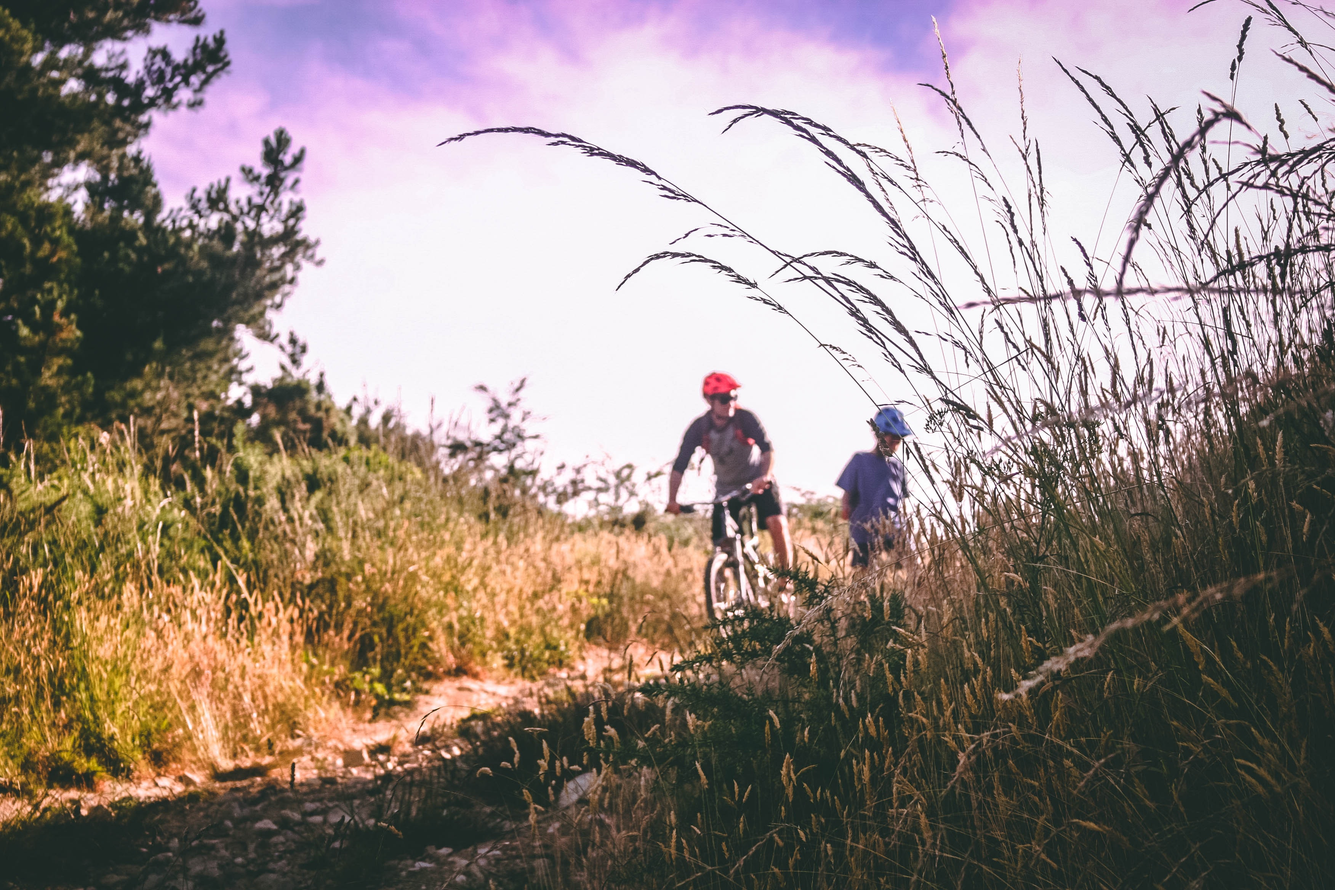
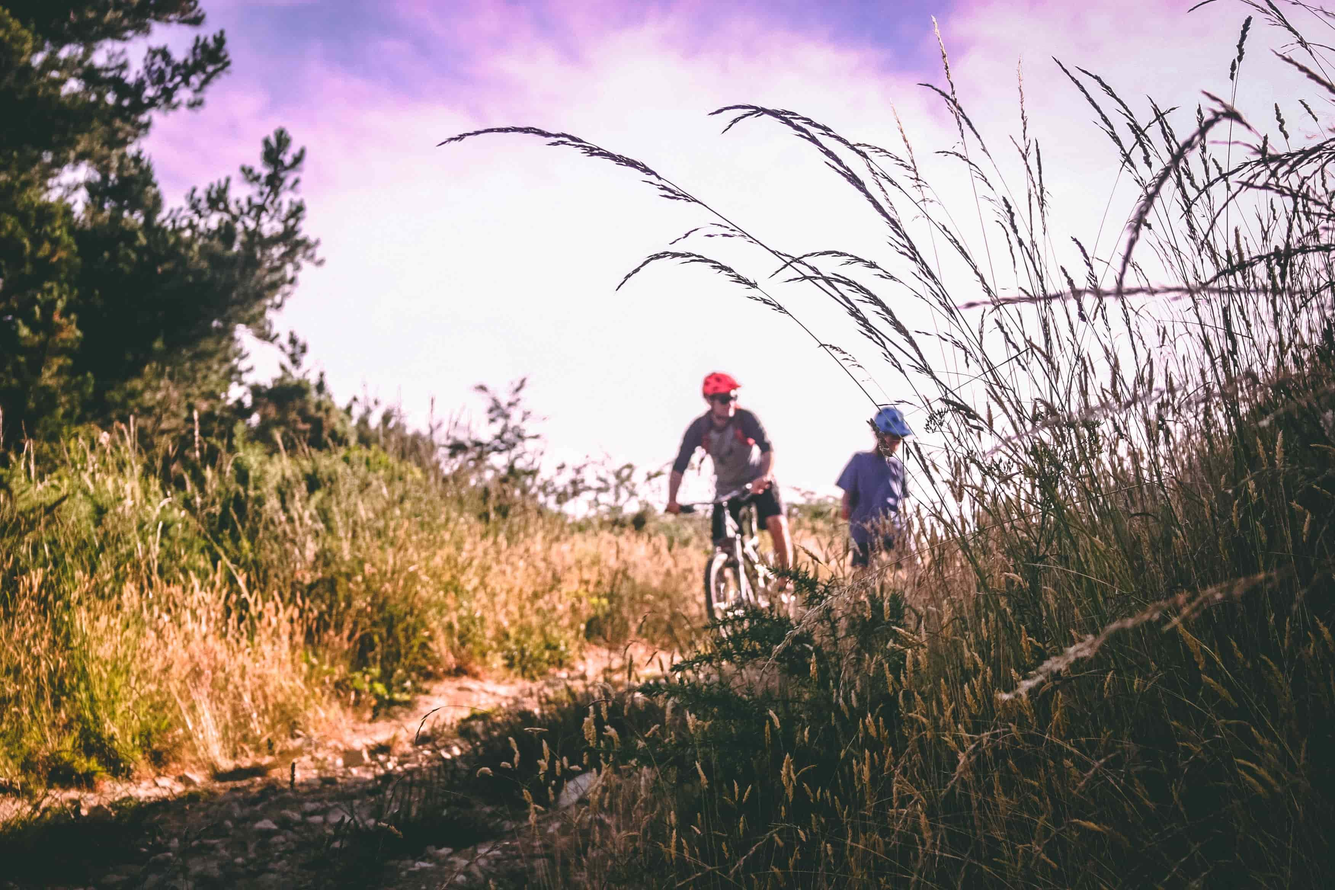
compressed images, adjusted padding on things to do text

diff --git a/components/things-to-do/index.js b/components/things-to-do/index.js
@@ -8,17 +8,18 @@ import SubTitle from "../shared/title/subtitle";
 export default function ThingsToDo() {
   return (
     <div>
-      <div className="flex-layout w-full bg-nature4 text-nature1 ">
+      <div className="w-full text-center w-2/3 mx-auto bg-nature5">
+        <p className="pt-[94px] pb-[94px] font-serif text-3xl md:text-4xl tracking-tight text-nature1">
+          Explore all of the activities that the Lake District has to offer
+        </p>
+      </div>
+      <div className="flex-layout w-full bg-nature4 text-nature1">
         <div>
-          <img
-            className="h-[400px] md:h-[450px] md:w-[559px] w-full object-cover"
-            src="/images/hiking.jpg"
-            alt=""
-          />
-
-          <div className="flex flex-col items-center justify-center p-5 w-10/12 md:w-[620px] md:pt-0 text-center mx-auto">
+          <img src="/images/hiking.jpg" alt="" />
+          {/* <div className="flex flex-col items-center justify-center p-5 max-w-[800px] xl:w-[620px] md:pt-0 text-center mx-auto"> */}
+          <div className="flex flex-col items-center justify-center px-5 py-16 md:py-0 max-w-[620px] text-center mx-auto">
             <SubTitle>Hiking</SubTitle>
-            <p className="">
+            <p>
               Lorem ipsum dolor sit amet consectetur adipisicing elit. Eos
               accusantium consequatur aspernatur quisquam inventore voluptatem
               voluptatibus impedit sapiente, culpa repudiandae! Harum suscipit
@@ -32,17 +33,10 @@ export default function ThingsToDo() {
         </div>
 
         <div>
-          <img
-            className="h-[400px] md:h-[450px] w-full md:w-[559px] object-cover"
-            src="/images/biking2.jpg"
-            alt=""
-          />
-
-          <div className="flex flex-col items-center justify-center p-5 w-10/12 md:w-[620px] md:pt-0 text-center mx-auto">
-            <SubTitle>
-              Biking
-            </SubTitle>
-            <p className="">
+          <img src="/images/biking2.jpg" alt="" />
+          <div className="flex flex-col items-center justify-center px-5 py-16 md:py-0 max-w-[620px] text-center mx-auto">
+            <SubTitle>Biking</SubTitle>
+            <p>
               Lorem ipsum dolor sit amet consectetur adipisicing elit. Eos
               accusantium consequatur aspernatur quisquam inventore voluptatem
               voluptatibus impedit sapiente, culpa repudiandae! Harum suscipit
@@ -55,62 +49,39 @@ export default function ThingsToDo() {
           </div>
         </div>
 
-        {/* <div className="grid grid-cols-2 grid-rows-1">
-          <div className="description h-[450px] flex flex-col items-center justify-center p-5 text-center">
-            <span className="text-3xl mb-5">
-              Lorem ipsum dolor sit amet consectetur adipisicing elit
-            </span>
-            Lorem ipsum dolor sit amet consectetur adipisicing elit. Eos
-            accusantium consequatur aspernatur quisquam inventore voluptatem
-            voluptatibus impedit sapiente, culpa repudiandae! Harum suscipit
-            quas aliquam molestias libero ea itaque a modi. Lorem ipsum dolor
-            sit amet consectetur adipisicing elit. Autem fuga laudantium
-            recusandae quasi asperiores soluta quos, numquam quo accusamus.
-            Culpa quam suscipit quibusdam velit est voluptates dolore laboriosam
-            maiores illo.
-          </div>
-          <div className="image h-[450px]">
-            <img src="/images/biking2.jpg" alt="" />
+        <div>
+          <img src="/images/camping.jpg" alt="" />
+          <div className="flex flex-col items-center justify-center px-5 py-16 md:py-0 max-w-[620px] text-center mx-auto">
+            <SubTitle>Camping</SubTitle>
+            <p>
+              Lorem ipsum dolor sit amet consectetur adipisicing elit. Eos
+              accusantium consequatur aspernatur quisquam inventore voluptatem
+              voluptatibus impedit sapiente, culpa repudiandae! Harum suscipit
+              quas aliquam molestias libero ea itaque a modi. Lorem ipsum dolor
+              sit amet consectetur adipisicing elit. Autem fuga laudantium
+              recusandae quasi asperiores soluta quos, numquam quo accusamus.
+              Culpa quam suscipit quibusdam velit est voluptates dolore
+              laboriosam maiores illo.
+            </p>
           </div>
         </div>
 
-        <div className="grid grid-cols-2 grid-rows-1">
-          <div className="image h-[450px]">
-            <img src="/images/camping.jpg" alt="" />
-          </div>
-          <div className="description h-[450px] flex flex-col items-center justify-center p-5 text-center">
-            <span className="text-3xl mb-5">
-              Lorem ipsum dolor sit amet consectetur adipisicing elit
-            </span>
-            Lorem ipsum dolor sit amet consectetur adipisicing elit. Eos
-            accusantium consequatur aspernatur quisquam inventore voluptatem
-            voluptatibus impedit sapiente, culpa repudiandae! Harum suscipit
-            quas aliquam molestias libero ea itaque a modi. Lorem ipsum dolor
-            sit amet consectetur adipisicing elit. Autem fuga laudantium
-            recusandae quasi asperiores soluta quos, numquam quo accusamus.
-            Culpa quam suscipit quibusdam velit est voluptates dolore laboriosam
-            maiores illo.
+        <div>
+          <img src="/images/paragliding.jpg" alt="" />
+          <div className="flex flex-col items-center justify-center px-5 py-16 md:py-0 max-w-[620px] text-center mx-auto">
+            <SubTitle>Paragliding</SubTitle>
+            <p>
+              Lorem ipsum dolor sit amet consectetur adipisicing elit. Eos
+              accusantium consequatur aspernatur quisquam inventore voluptatem
+              voluptatibus impedit sapiente, culpa repudiandae! Harum suscipit
+              quas aliquam molestias libero ea itaque a modi. Lorem ipsum dolor
+              sit amet consectetur adipisicing elit. Autem fuga laudantium
+              recusandae quasi asperiores soluta quos, numquam quo accusamus.
+              Culpa quam suscipit quibusdam velit est voluptates dolore
+              laboriosam maiores illo.
+            </p>
           </div>
         </div>
-
-        <div className="grid grid-cols-2 grid-rows-1">
-          <div className="description h-[450px] flex flex-col items-center justify-center p-5 text-center">
-            <span className="text-3xl mb-5">
-              Lorem ipsum dolor sit amet consectetur adipisicing elit
-            </span>
-            Lorem ipsum dolor sit amet consectetur adipisicing elit. Eos
-            accusantium consequatur aspernatur quisquam inventore voluptatem
-            voluptatibus impedit sapiente, culpa repudiandae! Harum suscipit
-            quas aliquam molestias libero ea itaque a modi. Lorem ipsum dolor
-            sit amet consectetur adipisicing elit. Autem fuga laudantium
-            recusandae quasi asperiores soluta quos, numquam quo accusamus.
-            Culpa quam suscipit quibusdam velit est voluptates dolore laboriosam
-            maiores illo.
-          </div>
-          <div className="image h-[450px]">
-            <img src="/images/paragliding.jpg" alt="" />
-          </div>
-        </div> */}
       </div>
     </div>
   );

diff --git a/styles/globals.css b/styles/globals.css
@@ -6,13 +6,16 @@
 
 @layer components {
     .flex-layout > div {
-      @apply even:bg-nature5 odd:bg-nature4 even:flex-row-reverse md:flex md:flex-row md:items-center;
+      @apply even:bg-nature5 odd:bg-nature4  even:flex-row-reverse md:flex md:flex-row md:items-center ;
     }
     .flex-layout h2 {
-      @apply md:flex md:flex-row md:items-center mb-5;
+      @apply md:flex md:flex-row md:items-center mb-5 ;
     }
     .flex-layout p {
-      @apply text-xl md:text-2xl tracking-tight;
+      @apply text-xl md:text-2xl tracking-tight text-justify;
+    }
+    .flex-layout img {
+      @apply h-[400px] md:h-[450px] md:max-w-[559px] w-full object-cover;
     }
 }
 

diff --git a/pages/index.js b/pages/index.js
@@ -23,7 +23,7 @@ export default function Home() {
         <div className="md:flex md:flex-row md:items-center bg-nature5 ">
           {/* <div className="max-h-fit max-w-96 md:w-[559px] bg-langdale"></div> */}
           <div className="h-[400px] md:h-[559px] w-full md:w-[559px] bg-langdale"></div>
-          <div className="w-10/12 md:w-[620px] py-16 md:pt-0 text-center mx-auto text-nature1 md:0">
+          <div className="w-10/12 md:w-[620px] py-16 md:pt-0 text-center mx-auto text-nature1">
 
             <SubTitle className="pb-8 ">
               Langdale Valley
